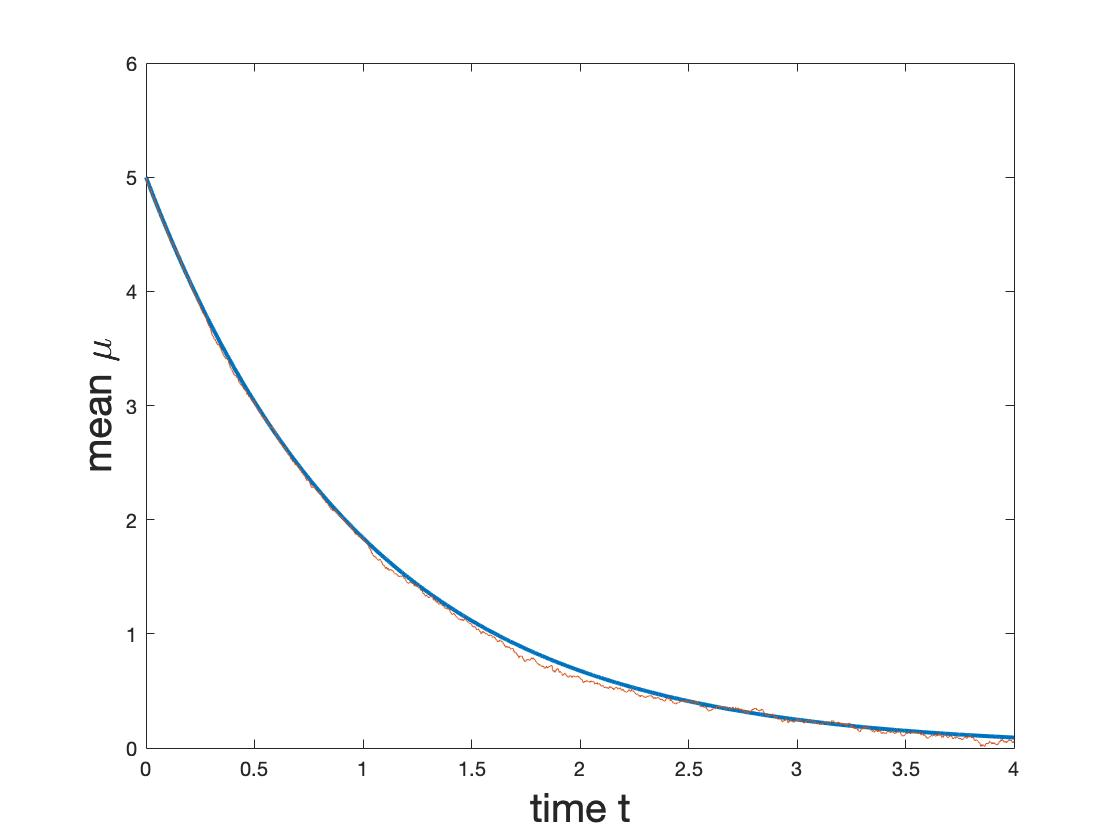
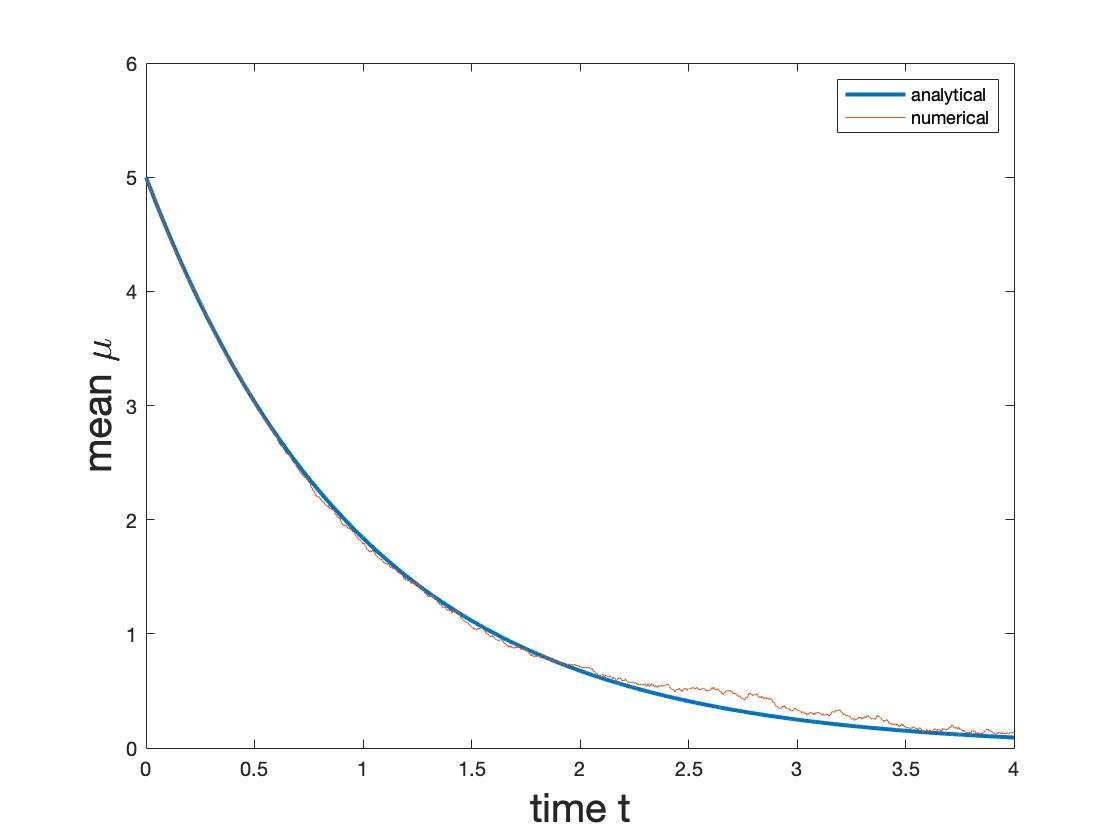
codes

diff --git a/README.md b/README.md
@@ -5,12 +5,26 @@
 This is a Fokker-Planck-Kolmogorov PDE solver for 1D Ornstein Uhlenbeck System and 
 a 2D Potential Nonlinear System.
 
-**NOTE**: This solver only supports the above systems currently. There is on going work on applications to more general systems.
+**NOTE**: This solver only supports the above systems currently. There is on-going work on applications to more general systems.
 
 
 ## Example:
 
+This are a sample plots for a 1D system. The required inputs are explained below in further details.
+
+The use is recommended to edit the file Main.m to see the entire file and change some of the inputs. 
+
+The first figure creates 6 subplots of the transient PDFs at different time specified by the user. 
 ![1DLinearSystem](Figs/Ex1DLinear.jpg)
+
+The second figure compares the analytical mean with the numerical mean.
+![1DLinearSystem](Figs/ExMean1D.jpg)
+
+The third figure compares the analytical variance with the numerical variance.
+![1DLinearSystem](Figs/ExVariance1D.jpg)
+
+The last figure plots the transients in one plot. 
+![1DLinearSystem](Figs/TransientPlot.jpg)
 
 
 
